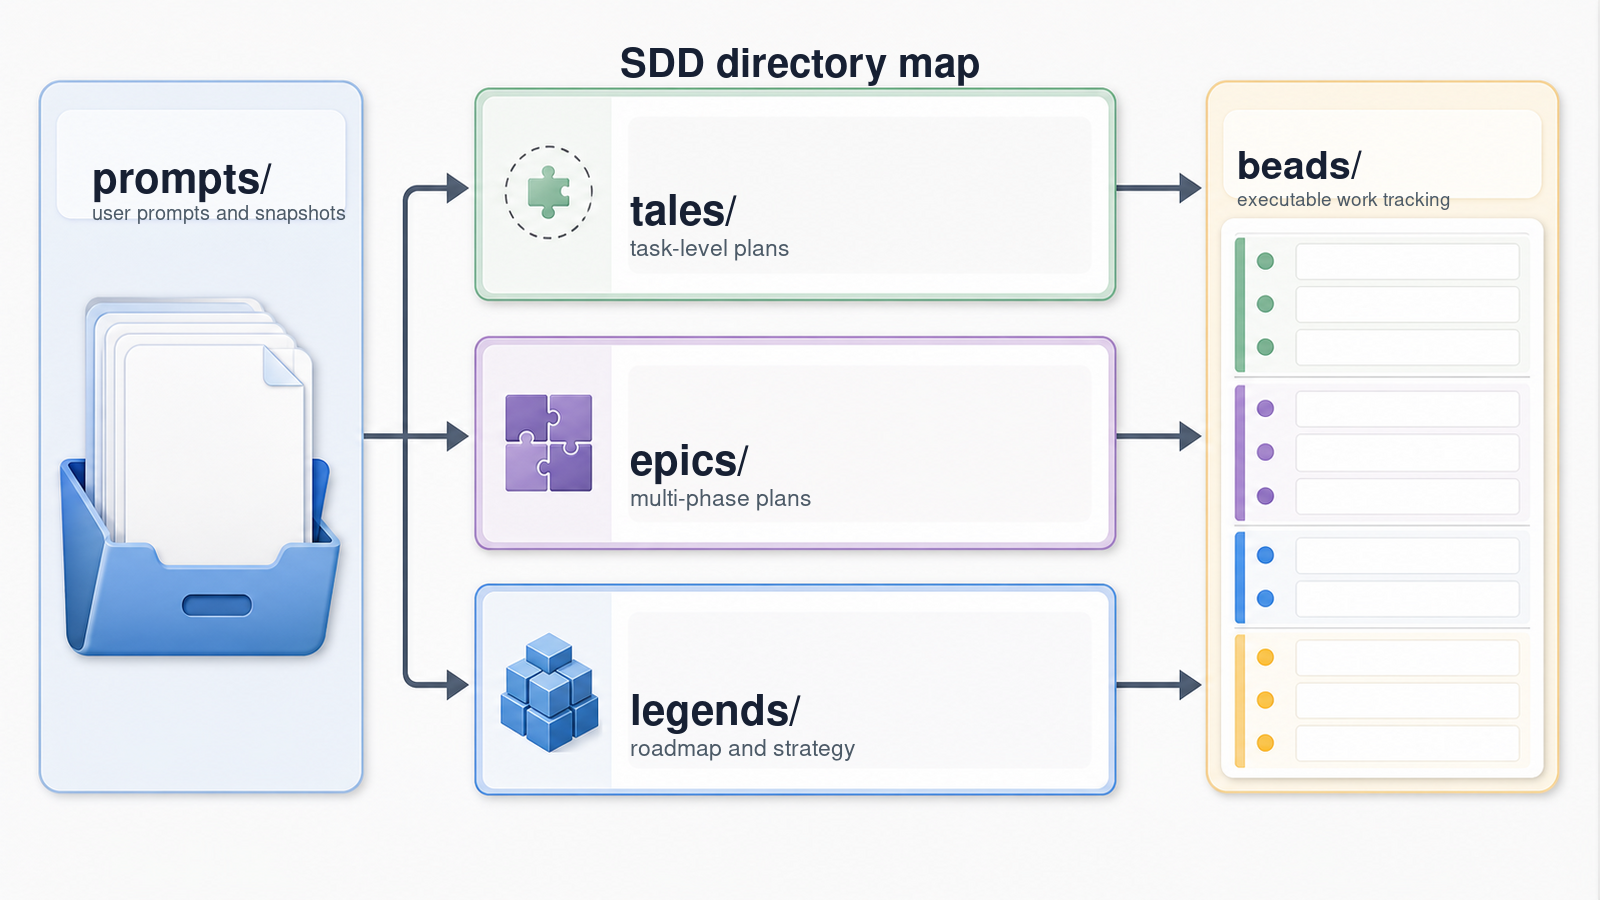
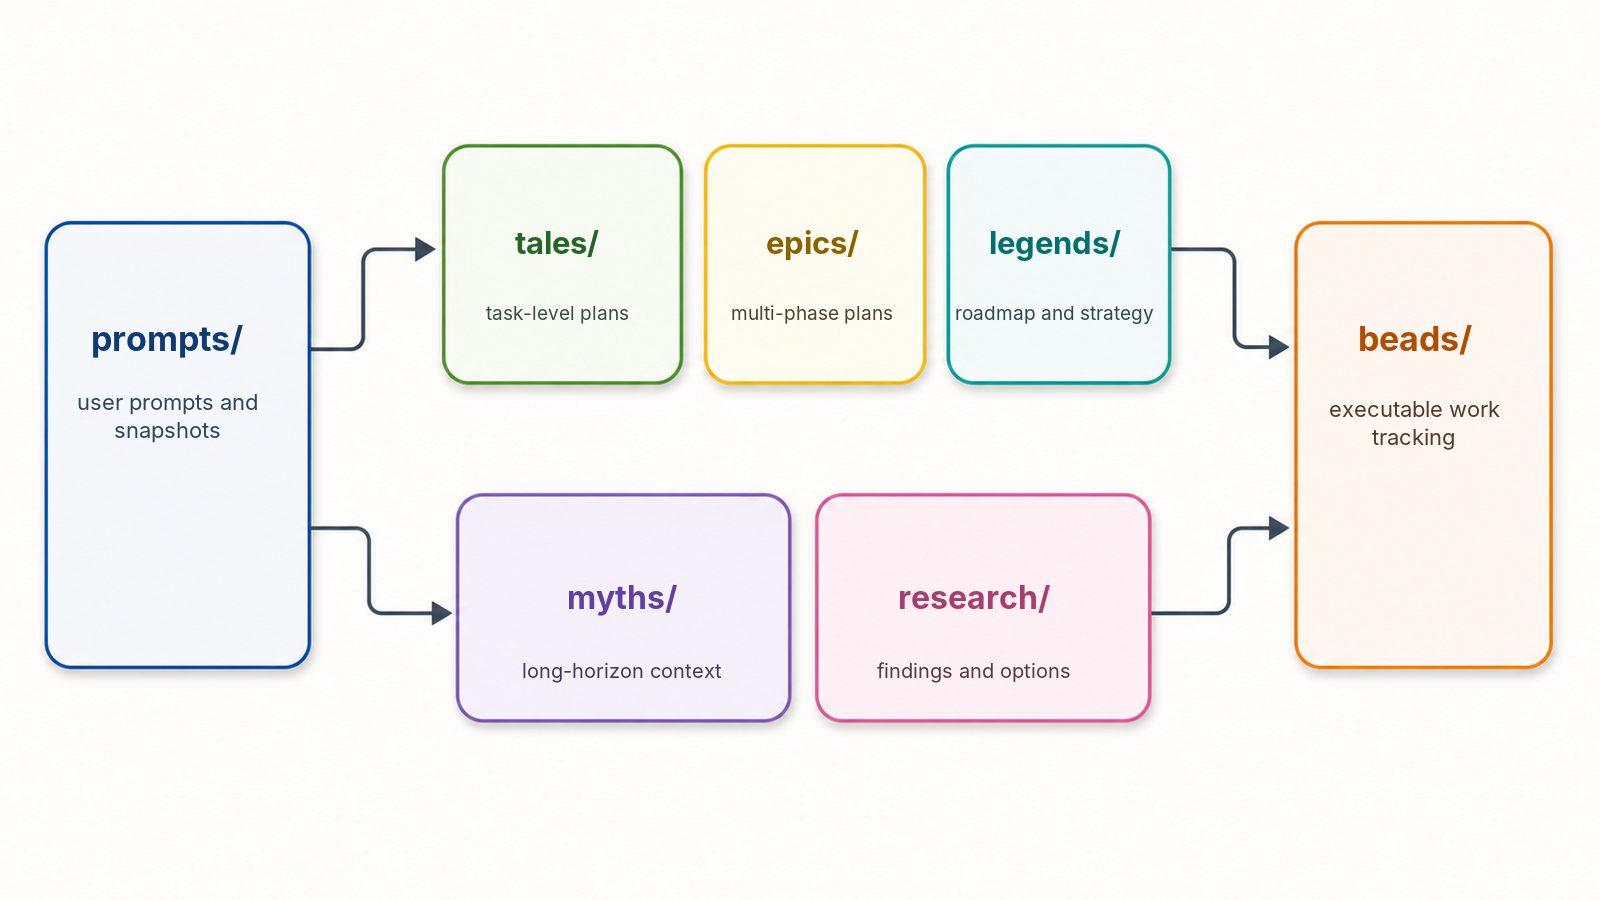
chore: refresh SDD directory map asset
Update the SDD directory map PNGs to include the canonical myths/ and
research/ directories alongside the existing planning and execution paths.

PLAN=sdd/tales/202605/sdd_directory_map_refresh.md

diff --git a/sdd/tales/202605/sdd_directory_map_refresh.md b/sdd/tales/202605/sdd_directory_map_refresh.md
@@ -1,0 +1,108 @@
+---
+create_time: 2026-05-02 19:09:52
+status: done
+---
+# Plan: Refresh SDD Directory Map Asset
+
+## Goal
+
+Regenerate the SDD directory map image with GPT image tooling so the visual documentation matches the current generated
+SDD layout, including both `myths/` and `research/`.
+
+The user referred to `assets/sdd-directory-map.png`; in this repository there is no repo-root `assets/` directory. The
+checked-in asset exists in two places:
+
+- `src/sase/sdd/assets/sdd-directory-map.png` is the packaged source asset.
+- `sdd/assets/sdd-directory-map.png` is the generated copy used by this repository's SDD README.
+
+Both should be replaced with the same final PNG so `sase sdd init` continues to copy the packaged asset into generated
+SDD trees.
+
+## Current State
+
+- The current map is a 1600x900 PNG with a clean documentation style.
+- It includes `prompts/`, `tales/`, `epics/`, `legends/`, and `beads/`.
+- It omits the now-canonical `myths/` and `research/` directories.
+- `src/sase/sdd/files.py` already lists `myths/` and `research/` in generated README content and canonical SDD-root
+  detection.
+- Existing tests verify the image resource exists and that `sase sdd init` copies an asset, but they do not validate the
+  visual contents of the PNG.
+
+## Product Direction
+
+Keep the visual practical and README-friendly:
+
+- Preserve the existing documentation-diagram tone: light background, high contrast, restrained colors, no fantasy-map
+  styling.
+- Keep the output at 1600x900 so the asset remains stable in GitHub Markdown and package data.
+- Show seven canonical directories:
+  - `prompts/` - user prompts and snapshots
+  - `tales/` - task-level plans
+  - `epics/` - multi-phase plans
+  - `legends/` - roadmap and strategy
+  - `myths/` - long-horizon context
+  - `research/` - findings and options
+  - `beads/` - executable work tracking
+- Make the flow clear: `prompts/` feed planning, planning and research/context inform work, and `beads/` tracks
+  execution.
+
+## Image Strategy
+
+Use the `imagegen` skill's default built-in GPT image path for the raster visual base. Do not depend on GPT-rendered
+text for correctness.
+
+Recommended approach:
+
+1. Generate a clean, text-free diagram base with GPT image.
+   - Ask for a 16:9 technical documentation diagram with seven empty labeled regions.
+   - Request no rendered words, pseudo-text, watermarks, logos, or decorative fantasy elements.
+   - Reserve simple blank panels or cards for labels.
+
+2. Add final text deterministically with local image tooling.
+   - Use ImageMagick, Pillow, or another available local tool to overlay crisp labels and short descriptions.
+   - Keep text large enough to read when the README image is scaled down.
+   - Use consistent label placement and accessible contrast.
+
+3. If GPT image output already contains hallucinated or unreadable text, reject it and regenerate once with a stricter
+   no-text prompt.
+
+This satisfies the request to use GPT image while avoiding the known weakness of generated text in documentation assets.
+
+## Implementation Steps
+
+1. Confirm the two existing asset paths are byte-identical before replacement.
+2. Generate one or more GPT image candidates using the built-in image generation tool.
+3. Inspect the candidate visually and select the cleanest base.
+4. Post-process to 1600x900 PNG and overlay deterministic labels for all seven directories.
+5. Replace `src/sase/sdd/assets/sdd-directory-map.png`.
+6. Copy the same final bytes to `sdd/assets/sdd-directory-map.png`.
+7. Leave `src/sase/sdd/files.py` and README Markdown unchanged unless the generated asset reveals a concrete need for an
+   alt-text update.
+
+## Validation
+
+Run these checks after asset replacement:
+
+- Visually inspect the final PNG at full size.
+- Confirm the source and generated copies match with `cmp`.
+- Confirm dimensions and file type with `identify` or `file`.
+- Run focused SDD tests:
+  - `.venv/bin/pytest tests/main/test_sdd_handler.py tests/test_sdd_paths.py`
+- Run `just install` first if the workspace editable install is stale.
+- Run `just check` before finishing, because repo memory requires it after file changes.
+
+## Risks
+
+- GPT image may include fake text or visually busy panels. Mitigation: generate a text-free base and overlay labels
+  locally.
+- Seven directories can make the map crowded. Mitigation: use concise labels and a two-row or grouped layout instead of
+  forcing all planning directories into the old three-lane composition.
+- The generated image may not match the prior style exactly. Mitigation: preserve the existing 16:9 documentation style,
+  color restraint, and deterministic text overlay.
+
+## Non-Goals
+
+- Do not change SDD directory semantics.
+- Do not change `sase sdd init` copy behavior.
+- Do not add runtime image generation.
+- Do not modify tests unless validation reveals an existing test assumption tied to the old asset.
